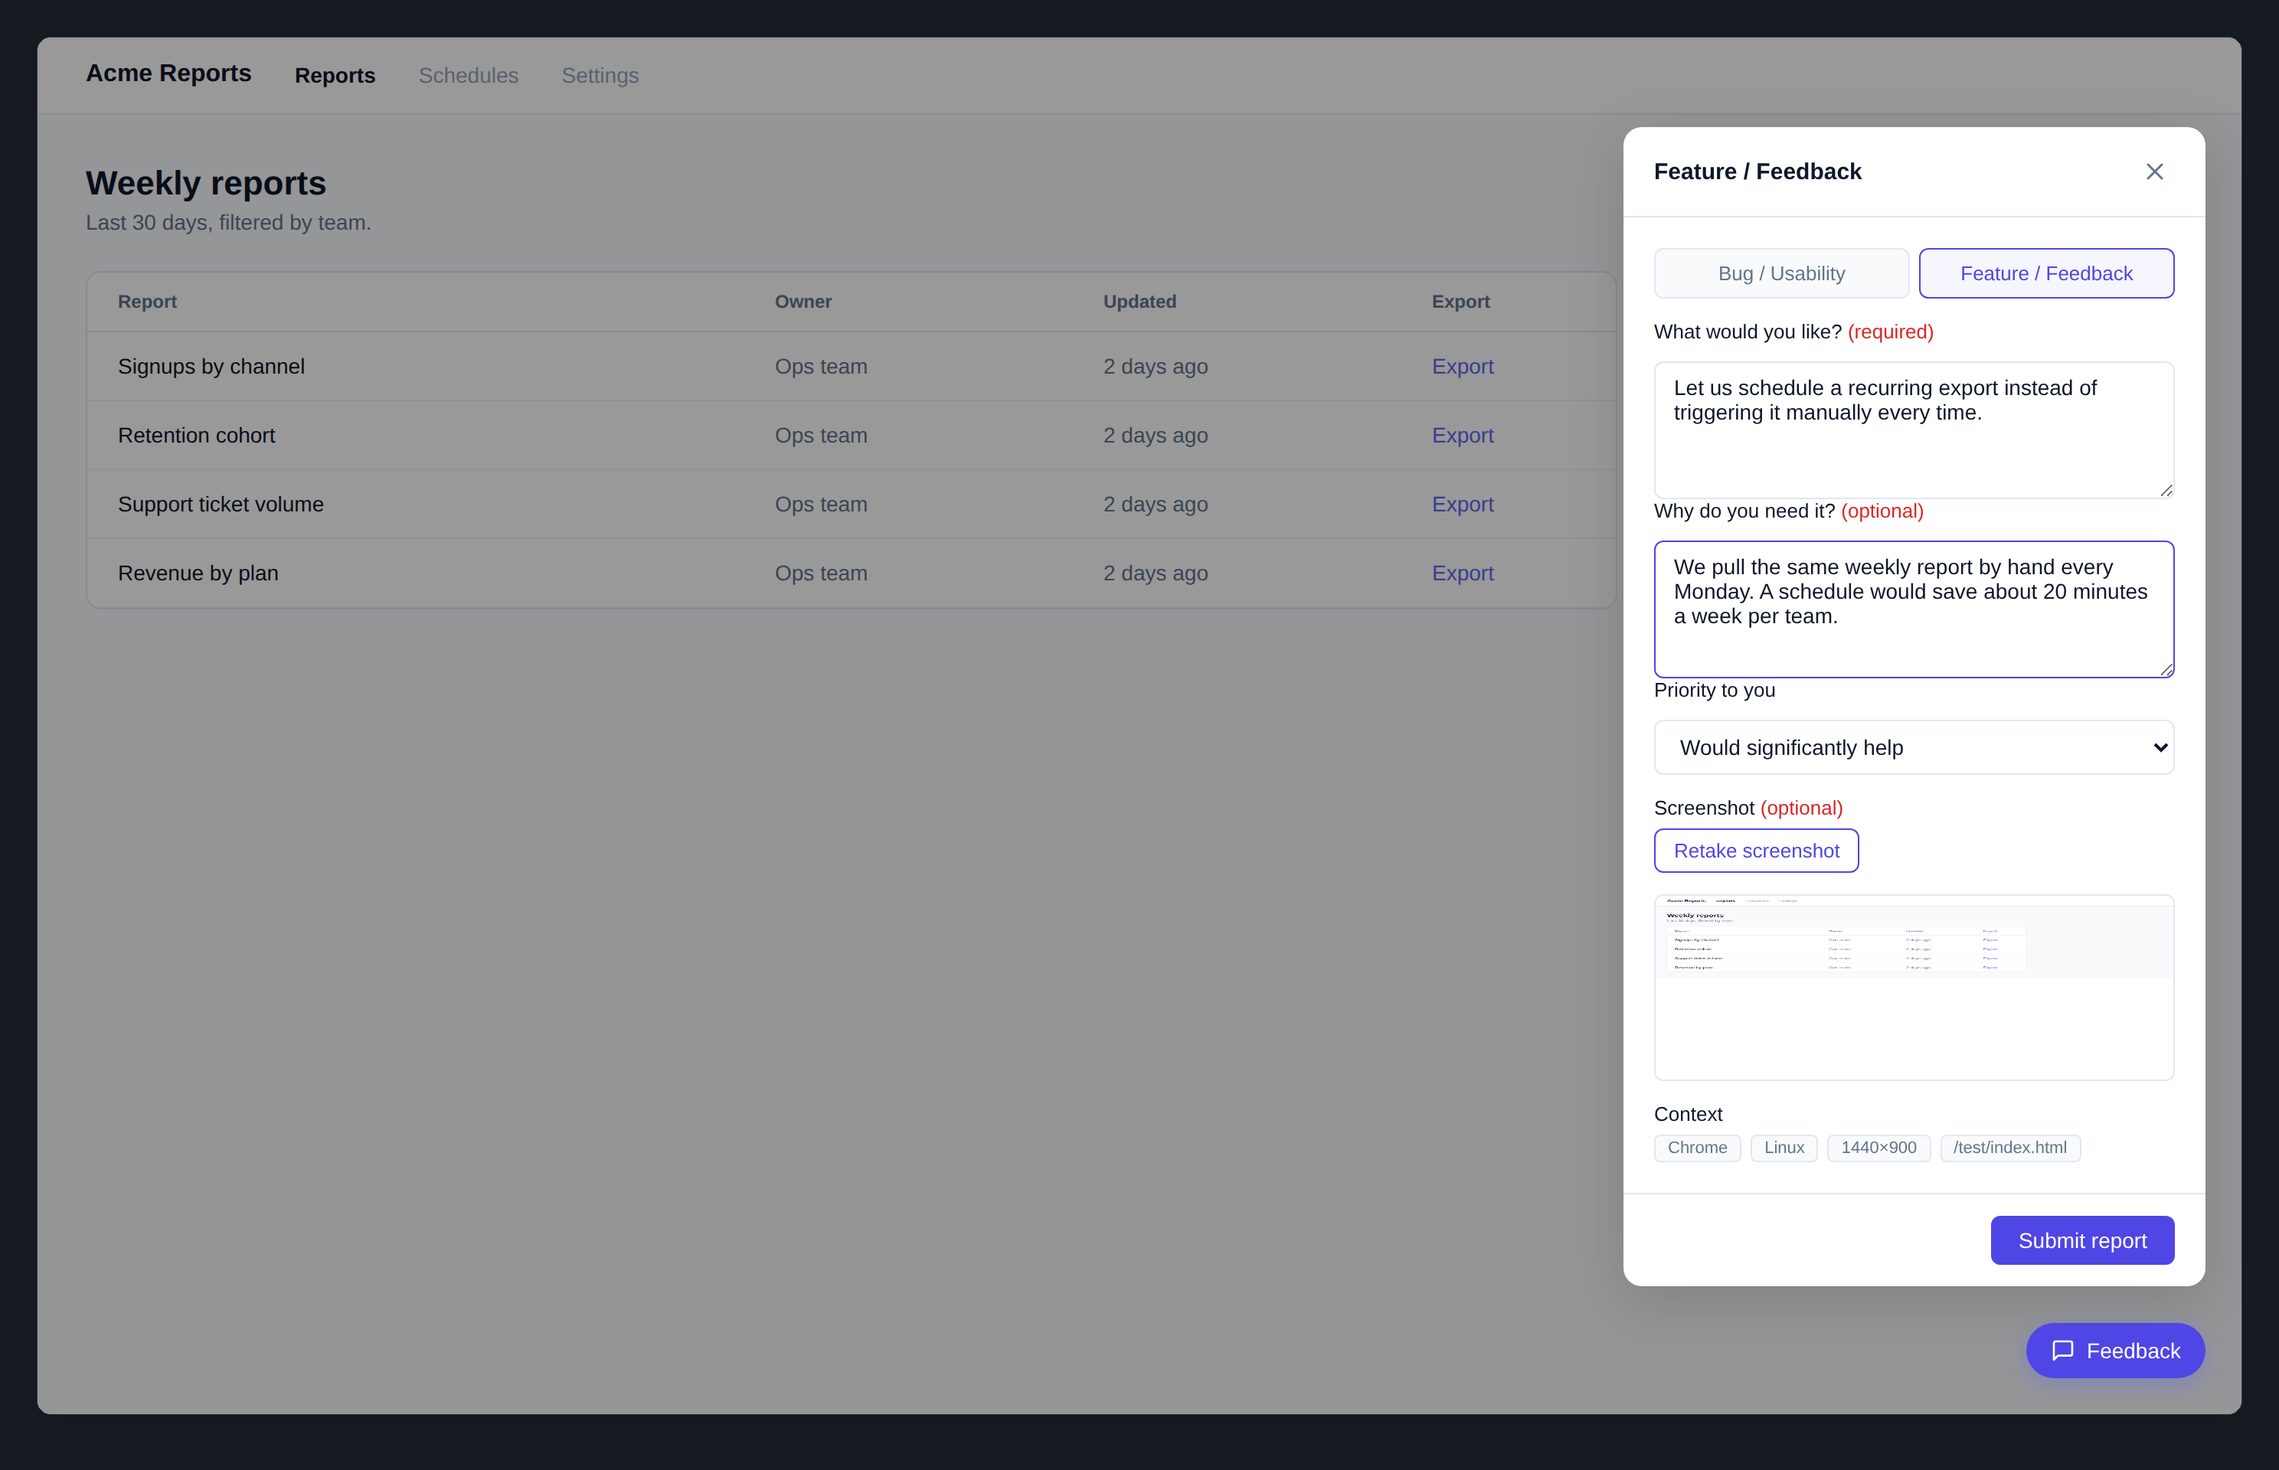
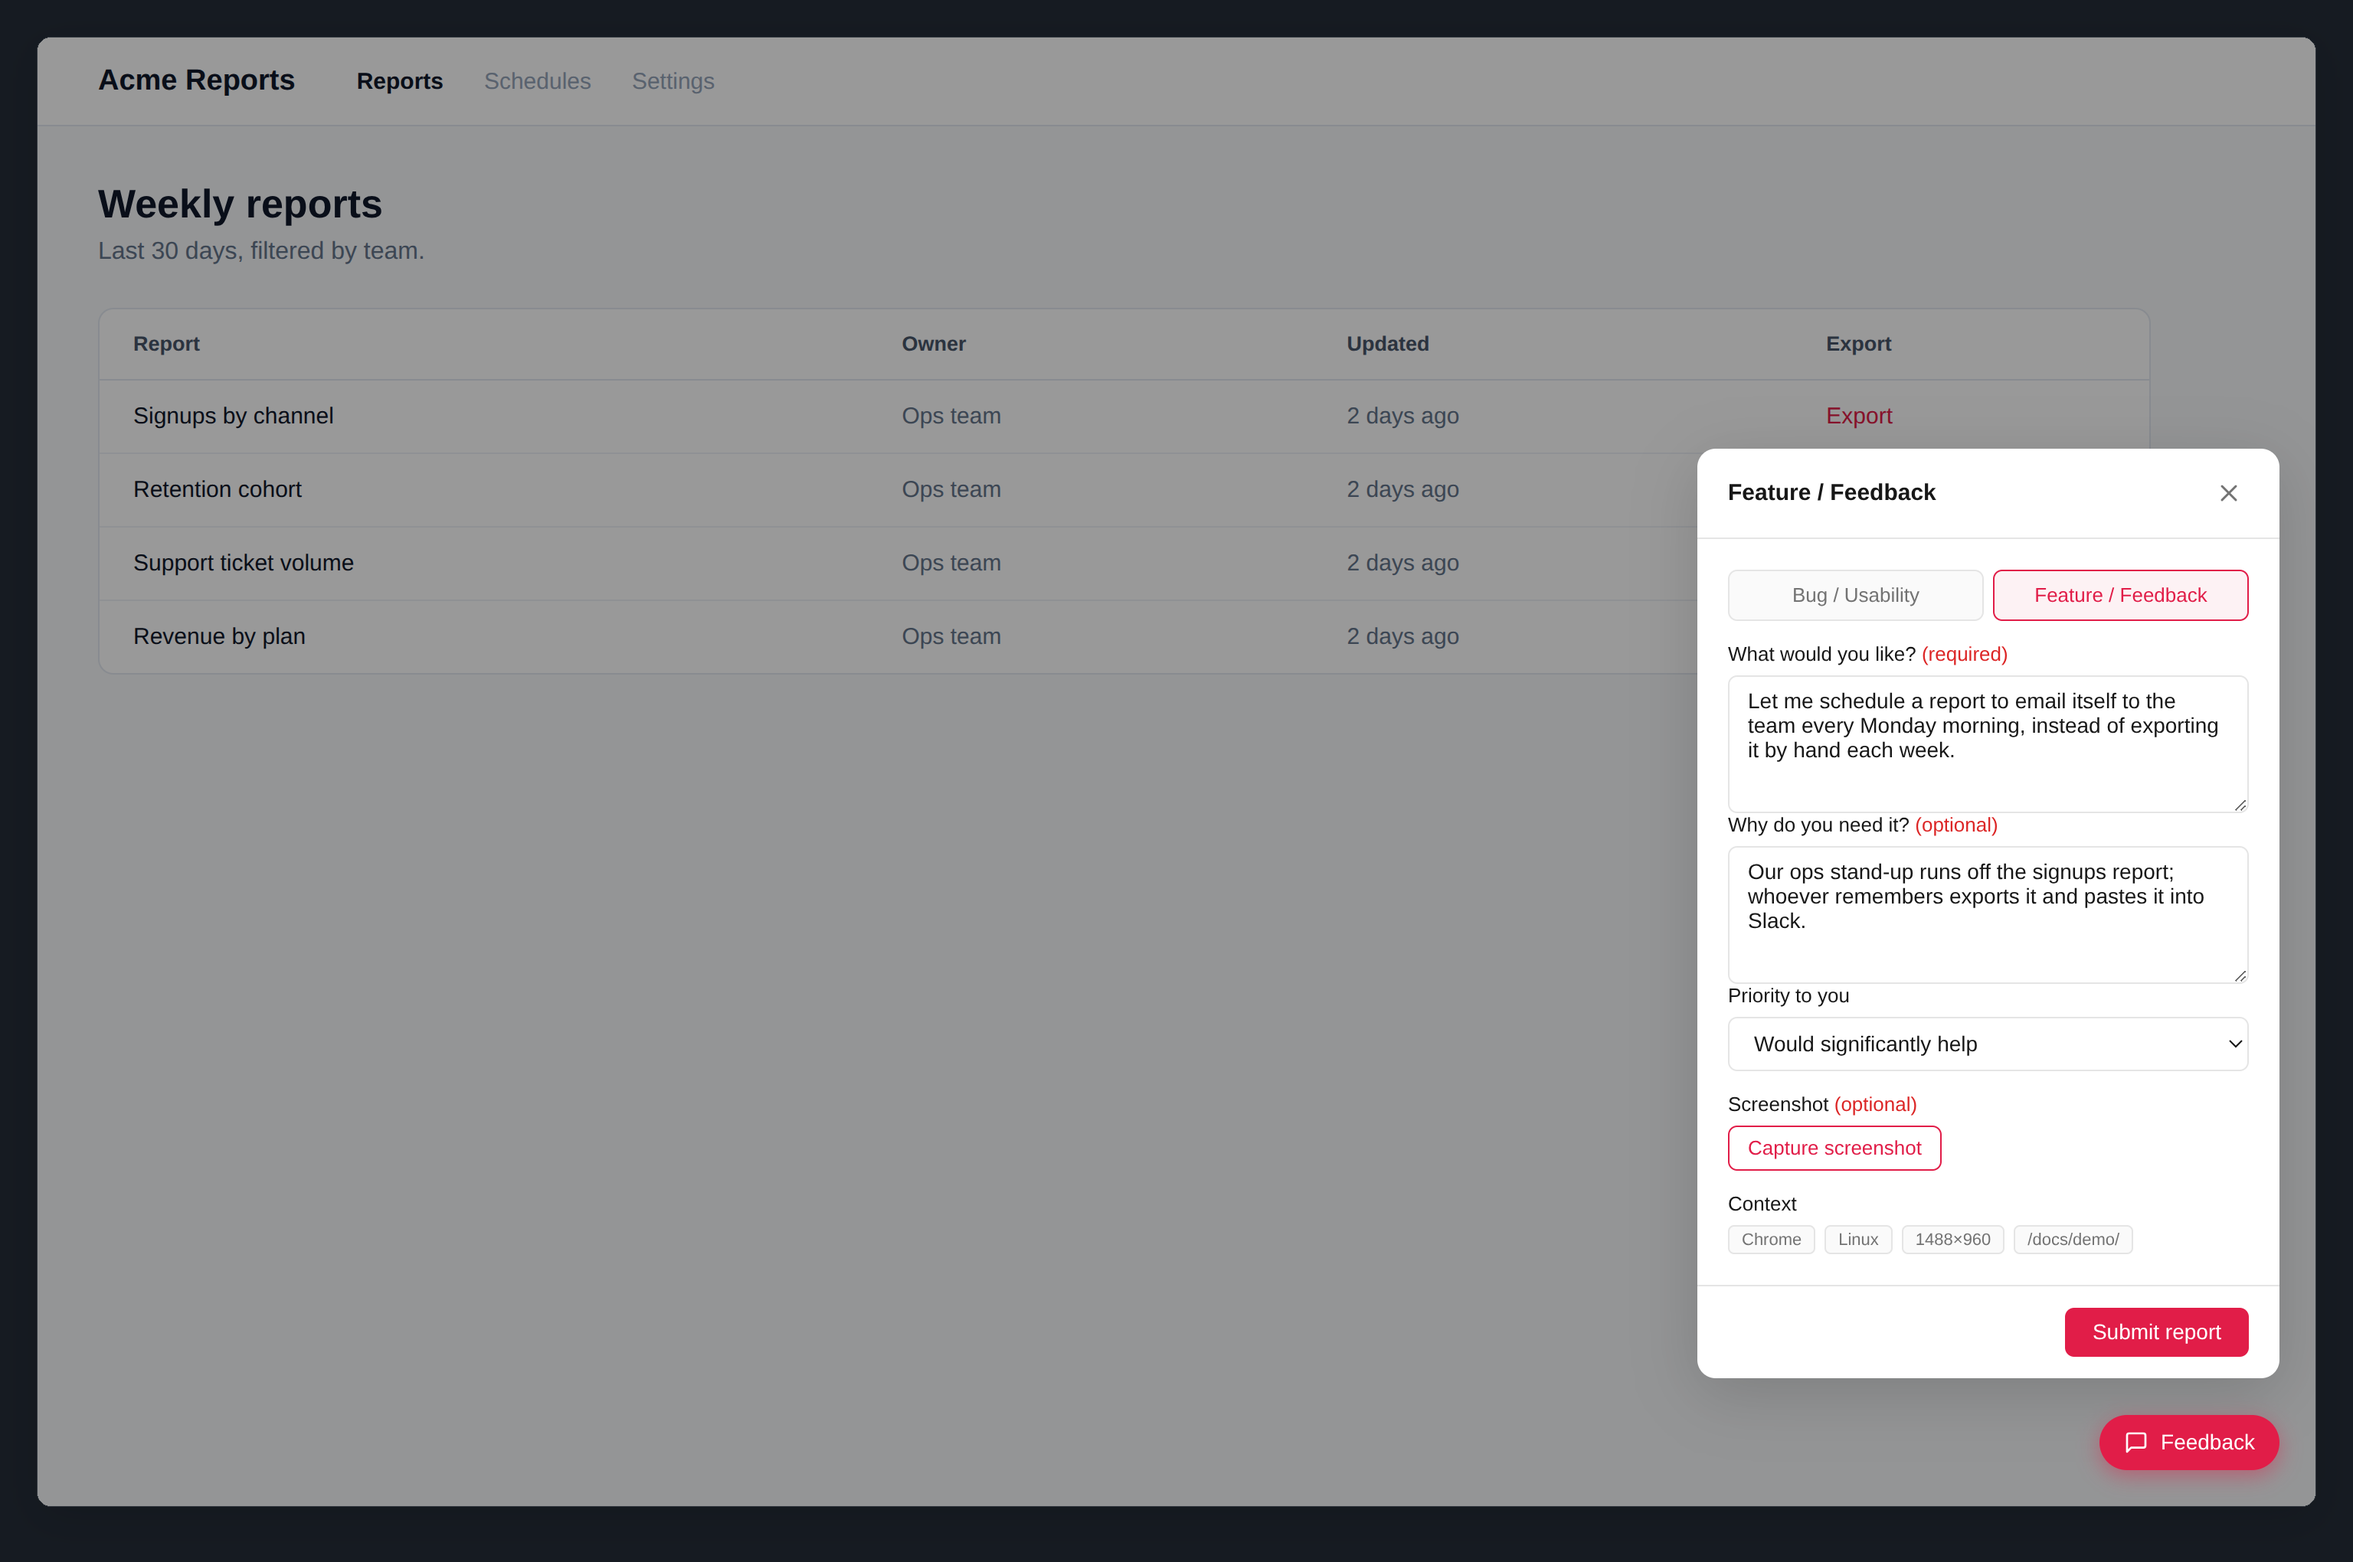
docs: recapture README screenshots across three host themes; commit the demo page
The six screenshots showed the retired indigo default from before the
grayscale change. Recaptured from a now-committed demo page
(docs/demo/index.html) whose ?brand= query drives both the fake app's
accent and the widget's config.color: hero indigo, bug report emerald,
feature request rose, so the set itself demonstrates that colour comes
from the host. Caption added under the shots stating the grayscale
default. Framed with docs/frame_screenshots.py as before.

diff --git a/docs/demo/index.html b/docs/demo/index.html
@@ -1,0 +1,101 @@
+<!DOCTYPE html>
+<html lang="en">
+<head>
+  <meta charset="UTF-8" />
+  <meta name="viewport" content="width=device-width, initial-scale=1.0" />
+  <title>Acme Reports — bugpilot screenshot demo</title>
+  <!--
+    Fake host app used to capture the README screenshots, committed so
+    recaptures are reproducible (the framing step is docs/frame_screenshots.py).
+
+    Usage:
+      1. cd widget && pnpm build          (the page loads the built IIFE)
+      2. serve the repo root, e.g.:  python3 -m http.server 8790
+      3. open http://localhost:8790/docs/demo/?brand=%236366f1
+         The brand query drives BOTH the fake app's accent and the widget's
+         config.color, demonstrating that the widget takes its colour from
+         the host. Omit ?brand to see the widget's grayscale default.
+  -->
+  <style>
+    :root { --brand: #6366f1; }
+    * { box-sizing: border-box; }
+    body {
+      font-family: -apple-system, BlinkMacSystemFont, 'Segoe UI', Roboto, sans-serif;
+      margin: 0;
+      background: #f6f8fa;
+      color: #0f172a;
+    }
+    header {
+      display: flex;
+      align-items: center;
+      gap: 28px;
+      background: #fff;
+      border-bottom: 1px solid #e2e8f0;
+      padding: 18px 40px;
+    }
+    header h1 { font-size: 19px; margin: 0 12px 0 0; }
+    header nav a {
+      font-size: 15px;
+      text-decoration: none;
+      color: #94a3b8;
+      margin-right: 22px;
+    }
+    header nav a.active { color: #0f172a; font-weight: 600; }
+    main { padding: 36px 40px; }
+    main h2 { font-size: 26px; margin: 0 0 6px; }
+    .sub { color: #64748b; margin: 0 0 28px; }
+    .table-card {
+      background: #fff;
+      border: 1px solid #e2e8f0;
+      border-radius: 10px;
+      max-width: 1340px;
+      overflow: hidden;
+    }
+    table { width: 100%; border-collapse: collapse; font-size: 15px; }
+    th, td { text-align: left; padding: 15px 22px; }
+    th { font-size: 13.5px; color: #475569; border-bottom: 1px solid #e2e8f0; }
+    tr + tr td { border-top: 1px solid #eef2f6; }
+    td.owner, td.updated { color: #64748b; }
+    td a { color: var(--brand); text-decoration: none; }
+  </style>
+</head>
+<body>
+  <header>
+    <h1>Acme Reports</h1>
+    <nav>
+      <a href="#" class="active">Reports</a>
+      <a href="#">Schedules</a>
+      <a href="#">Settings</a>
+    </nav>
+  </header>
+  <main>
+    <h2>Weekly reports</h2>
+    <p class="sub">Last 30 days, filtered by team.</p>
+    <div class="table-card">
+      <table>
+        <thead>
+          <tr><th>Report</th><th>Owner</th><th>Updated</th><th>Export</th></tr>
+        </thead>
+        <tbody>
+          <tr><td>Signups by channel</td><td class="owner">Ops team</td><td class="updated">2 days ago</td><td><a href="#">Export</a></td></tr>
+          <tr><td>Retention cohort</td><td class="owner">Ops team</td><td class="updated">2 days ago</td><td><a href="#">Export</a></td></tr>
+          <tr><td>Support ticket volume</td><td class="owner">Ops team</td><td class="updated">2 days ago</td><td><a href="#">Export</a></td></tr>
+          <tr><td>Revenue by plan</td><td class="owner">Ops team</td><td class="updated">2 days ago</td><td><a href="#">Export</a></td></tr>
+        </tbody>
+      </table>
+    </div>
+  </main>
+
+  <script src="../../widget/dist/bugpilot.iife.js"></script>
+  <script>
+    const brand = new URLSearchParams(location.search).get('brand')
+    if (brand) document.documentElement.style.setProperty('--brand', brand)
+    BugPilot.init({
+      endpoint: 'http://localhost:8787/feedback',
+      projectName: 'Acme Reports',
+      position: 'bottom-right',
+      ...(brand ? { color: brand } : {}),
+    })
+  </script>
+</body>
+</html>

diff --git a/README.md b/README.md
@@ -20,6 +20,8 @@ Drop-in feedback and bug-capture widget with structured issue creation, AI triag
   </picture>
 </p>
 
+<p align="center"><sub>One widget, three host themes: the accent colour in each shot comes from the host app (<code>BugPilot.init({ color })</code> or <code>--bp-*</code> overrides). Out of the box the widget is grayscale until your app supplies a colour.</sub></p>
+
 ## What it does
 
 1. **Capture** — a lightweight widget embeds in any web app. Users submit a bug report or feature request; the widget auto-collects viewport, browser, OS, and URL context plus an optional screenshot.
